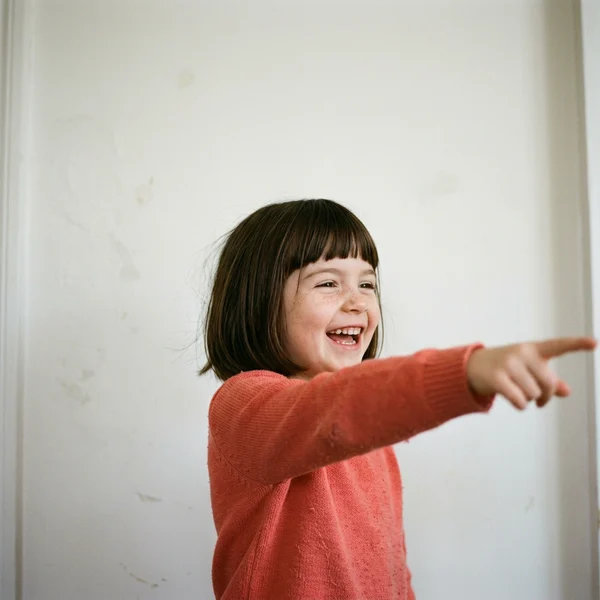
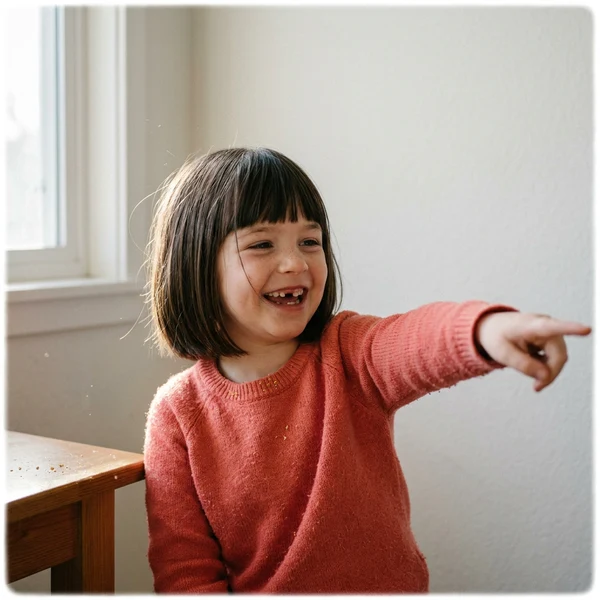
Rehacer fotos de landing con IA (Home, Familias, Eventos, Profesionales)

diff --git a/apps/web/src/components/home/hero-photo.tsx b/apps/web/src/components/home/hero-photo.tsx
@@ -66,30 +66,15 @@ export function HeroKit({
 }: {
   alts: Record<'invitation' | 'book' | 'stickers' | 'bookmarks', string>;
 }) {
-  const pieces = [
-    ['kit-invitacion', alts.invitation, 'translate-y-4'],
-    ['kit-cuento', alts.book, '-translate-y-2'],
-    ['kit-stickers', alts.stickers, '-translate-y-2'],
-    ['kit-separadores', alts.bookmarks, 'translate-y-4'],
-  ] as const;
+  // Una sola foto del kit completo; el alt resume las piezas.
+  const alt = [alts.invitation, alts.book, alts.stickers, alts.bookmarks].join(' · ');
   return (
-    <figure className="mx-auto grid w-full max-w-[40rem] grid-cols-2 gap-3 lg:max-w-none lg:grid-cols-4">
-      {pieces.map(([file, alt, shift], index) => (
-        <div
-          key={file}
-          className={`overflow-hidden rounded-2xl shadow-[0_18px_40px_-20px_rgb(38_50_74/0.4)] lg:${shift}`}
-        >
-          <ImageSlot
-            src={`/images/heroes/${file}.webp`}
-            alt={alt}
-            width={900}
-            height={1200}
-            priority={index < 2}
-            sizes="(min-width: 1024px) 160px, 45vw"
-            tone="bg-[#ffe7df]"
-          />
-        </div>
-      ))}
-    </figure>
+    <HeroPhoto
+      src="/images/heroes/kit-completo.webp"
+      alt={alt}
+      width={1600}
+      height={1200}
+      tone="bg-[#ffe7df]"
+    />
   );
 }

diff --git a/docs/DECISIONS.md b/docs/DECISIONS.md
@@ -1902,3 +1902,7 @@ Las 2 páginas fijas son la dedicatoria y el cierre. En el formato mixto, ~25 % 
 - **Estilos del asistente:** muestras de los ocho estilos, badge "Recomendado" (el `defaultStyle` de la historia o el de su línea: gouache en Familias y Celebraciones, minimalismo en Profesionales), preseleccionado, y una frase por estilo en es, en y pt. Los tres estilos nuevos usan su muestra en el visor de ejemplo hasta tener su librito de cuatro páginas.
 - **No se borró nada viejo:** las imágenes anteriores siguen en git y `public/brand/` queda sin referencias hasta que se confirmen las nuevas en staging.
 - **Pendiente:** fotos reales (reemplazar las generadas), el librito de ejemplo de cuatro páginas de los tres estilos nuevos, `defaultStyle` en el formulario del admin, y la portada de la Navidad (la historia está apagada).
+
+### 157b. Fotos de landing rehechas (2026-10-31)
+
+Se regeneraron con `gemini-3-pro-image` (más calidad, ≈ USD 0,17 por imagen; 8 variantes ≈ USD 1,39) y prompts "de cámara" (luz natural, grano, imperfecciones, encuadre casual): Home, Familias (foto), Eventos y Profesionales (sin caras de niños ni de adultos). Eventos pasa de 4 fotos de piezas a **una sola foto del kit completo** (`heroes/kit-completo.webp`; `HeroKit` mantiene sus props). Siguen siendo fotos generadas por IA: **reemplazar por fotos reales antes de producción**.
